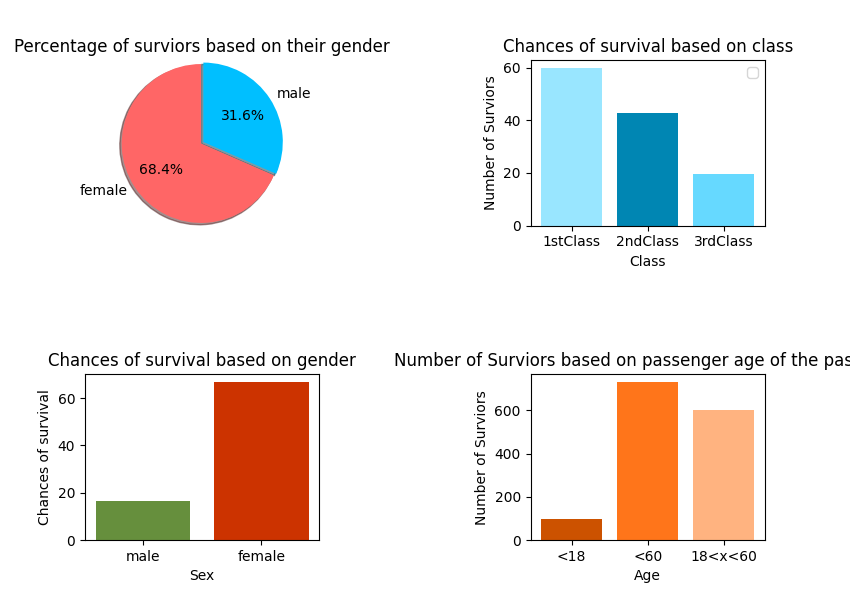
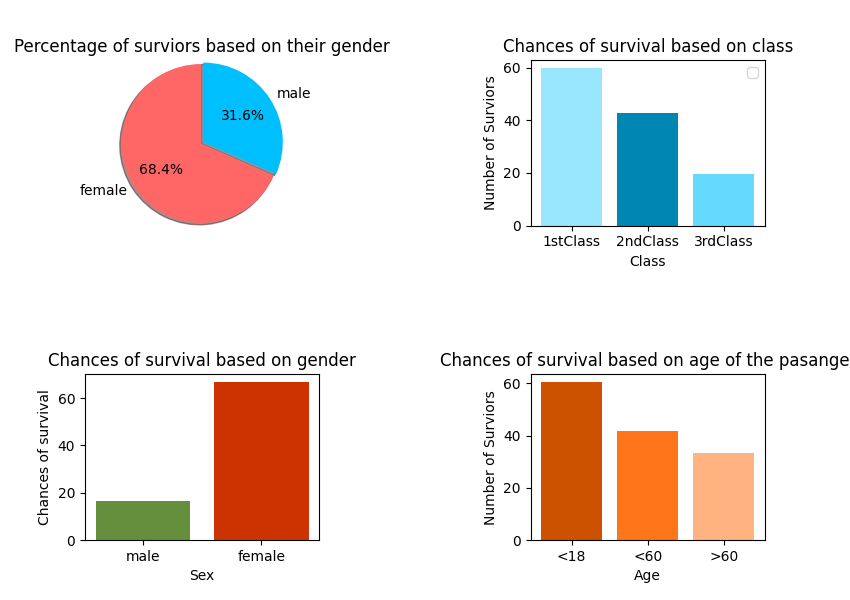
Fixed graph and some bugs

Changed region(s): [[0.4588, 0.57, 1.0, 0.87], [0.8259, 0.9, 0.8871, 0.96]]

diff --git a/main.py b/main.py
@@ -59,7 +59,7 @@ class data:
         self.number_of_survivors = 0
         self.number_of_survivors_that_were_below_age18 = 0
         self.number_of_survivors_that_were_below_age60 = 0
-        self.number_of_surviors_between_age18and60 = 0
+        self.number_of_surviors_above_age_of_60 = 0
         self.number_of_surviors_that_were_male = 0
         self.number_of_surviors_that_were_female = 0
         self.number_of_surviors_in_1stclass = 0
@@ -69,7 +69,7 @@ class data:
         self.number_of_passengers = 0
         self.number_of_passengers_that_were_below_age18 = 0
         self.number_of_passengers_that_were_below_age60 = 0
-        self.number_of_passengers_between_age18and60 = 0
+        self.number_of_passengers_above_age_of_60 = 0
         self.number_of_passengers_that_were_male = 0
         self.number_of_passengers_that_were_female = 0
         self.number_of_passengers_in_1stclass = 0
@@ -84,8 +84,8 @@ class data:
                 self.number_of_survivors_that_were_below_age18 = value
             case 'number_of_survivors_that_were_below_age60':
                 self.number_of_survivors_that_were_below_age60 = value
-            case 'number_of_surviors_between_age18and60':
-                self.number_of_surviors_between_age18and60 = value
+            case 'number_of_surviors_above_age_of_60':
+                self.number_of_surviors_above_age_of_60 = value
             case 'number_of_surviors_that_were_male':
                 self.number_of_surviors_that_were_male = value
             case 'number_of_surviors_that_were_female':
@@ -170,7 +170,7 @@ def filling_number_of_survivors(df, data1, key, dff, keyy, keyy_value, survived=
 
 def filling_number_of_survivors_with_paratr(df, data1, key, keyy, key_value, key_value1, key_value2, survived=3):
     data1.adding_data(key, count_ppl_the_other_way_with_paratr(
-        keyy, key_value, key_value1, key_value2, survived=3))  # here
+        keyy, key_value, key_value1, key_value2, survived))  # here
 
 
 def filling_number_of_passengers(df):
@@ -183,7 +183,7 @@ def filling_number_of_passengers(df):
 
         data1.number_of_passengers_that_were_below_age18 = count_ppl_the_other_way_with_paratr("Age","NaN",0,18)
         data1.number_of_passengers_that_were_below_age60 = count_ppl_the_other_way_with_paratr("Age","NaN",0,60)
-        data1.number_of_passengers_between_age18and60 = count_ppl_the_other_way_with_paratr("Age","NaN",19,60)
+        data1.number_of_passengers_above_age_of_60 = count_ppl_the_other_way_with_paratr("Age","NaN",60,200)
         
 # wszyscy
 """
@@ -211,7 +211,7 @@ def collecting_all_data():
     filling_number_of_survivors_with_paratr(
         df, data1, 'number_of_survivors_that_were_below_age60', 'Age', 'NaN', 0, 60, 0)
     filling_number_of_survivors_with_paratr(
-        df, data1, 'number_of_surviors_between_age18and60', 'Age', 'NaN', 19, 60, 0)
+        df, data1, 'number_of_surviors_above_age_of_60', 'Age', 'NaN', 60, 200, 0)
 
 
 collecting_all_data()
@@ -222,7 +222,7 @@ print(data1.number_of_survivors)
 print(data1.number_of_surviors_that_were_male)
 print(data1.number_of_surviors_in_1stclass)
 print(counting_ppl_the_other_way(df, 'PClass', '1st', 0))
-print(data1.number_of_surviors_between_age18and60)
+print(data1.number_of_surviors_above_age_of_60)
 """
 print(data1.number_of_passengers_that_were_female)
 print(data1.number_of_surviors_that_were_female)

diff --git a/graphs.py b/graphs.py
@@ -18,7 +18,10 @@ PThirdClass = main.data1.number_of_passengers_in_3rdclass
 
 below18 = main.data1.number_of_survivors_that_were_below_age18
 below60 = main.data1.number_of_survivors_that_were_below_age60
-between18and60 = main.data1.number_of_surviors_between_age18and60
+above60 = main.data1.number_of_surviors_above_age_of_60
+Pbelow18 = main.data1.number_of_passengers_that_were_below_age18
+Pbelow60 = main.data1.number_of_passengers_that_were_below_age60
+Pabove60 = main.data1.number_of_passengers_above_age_of_60
 
 
 # Implemnt this in some time -> fig.savefig('out.png', dpi=100)
@@ -49,6 +52,13 @@ st = (FirstClass/PFirstClass)*100
 nd = (SecondClass/PSecondClass)*100
 rd = (ThirdClass/PThirdClass)*100
 
+b18 = (below18/Pbelow18)*100
+b60 = (below60/Pbelow60)*100
+a60 = (above60/Pabove60)*100
+
+
+print(above60)
+print(Pabove60)
 
 Pleft = [1, 2]
 Ptable = ["male", "female"]
@@ -59,8 +69,8 @@ height = [st, nd, rd]
 tick_label = ['1stClass', '2ndClass', '3rdClass']
 
 left2 = [1, 2, 3]
-heightt = [below18, below60, between18and60]
-trick_labell = ['<18', '<60', '18<x<60']
+heightt = [b18, b60, a60]
+trick_labell = ['<18', '<60', '>60']
 """
 plt.bar(left, height, tick_label=tick_label,
         width=0.8, color=['#99e6ff', '#0086b3', '#66d9ff'])
@@ -109,7 +119,7 @@ ax[1, 1].bar(left2, heightt, tick_label=trick_labell,
              width=0.8, color=['#cc5200', '#ff751a', '#ffb380'])
 ax[1, 1].set_xlabel('Age')
 ax[1, 1].set_ylabel('Number of Surviors')
-ax[1, 1].set_title('Number of Surviors based on passenger age of the pasanger')
+ax[1, 1].set_title('Chances of survival based on age of the pasanger')
 
 ax[1, 0].set_title('Chances of survival based on gender')
 ax[1, 0].bar(Pleft, Pheight, tick_label=Ptable,
